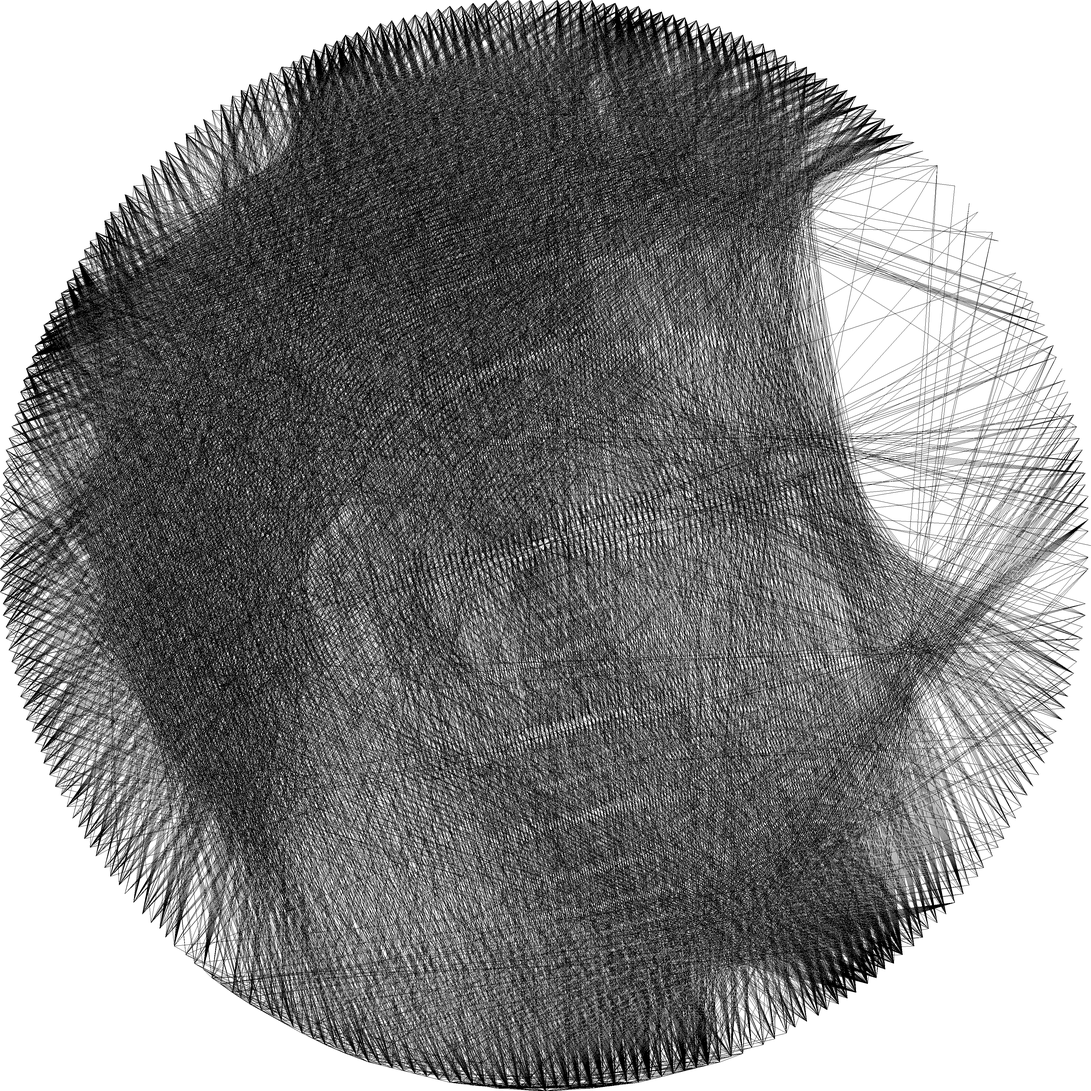
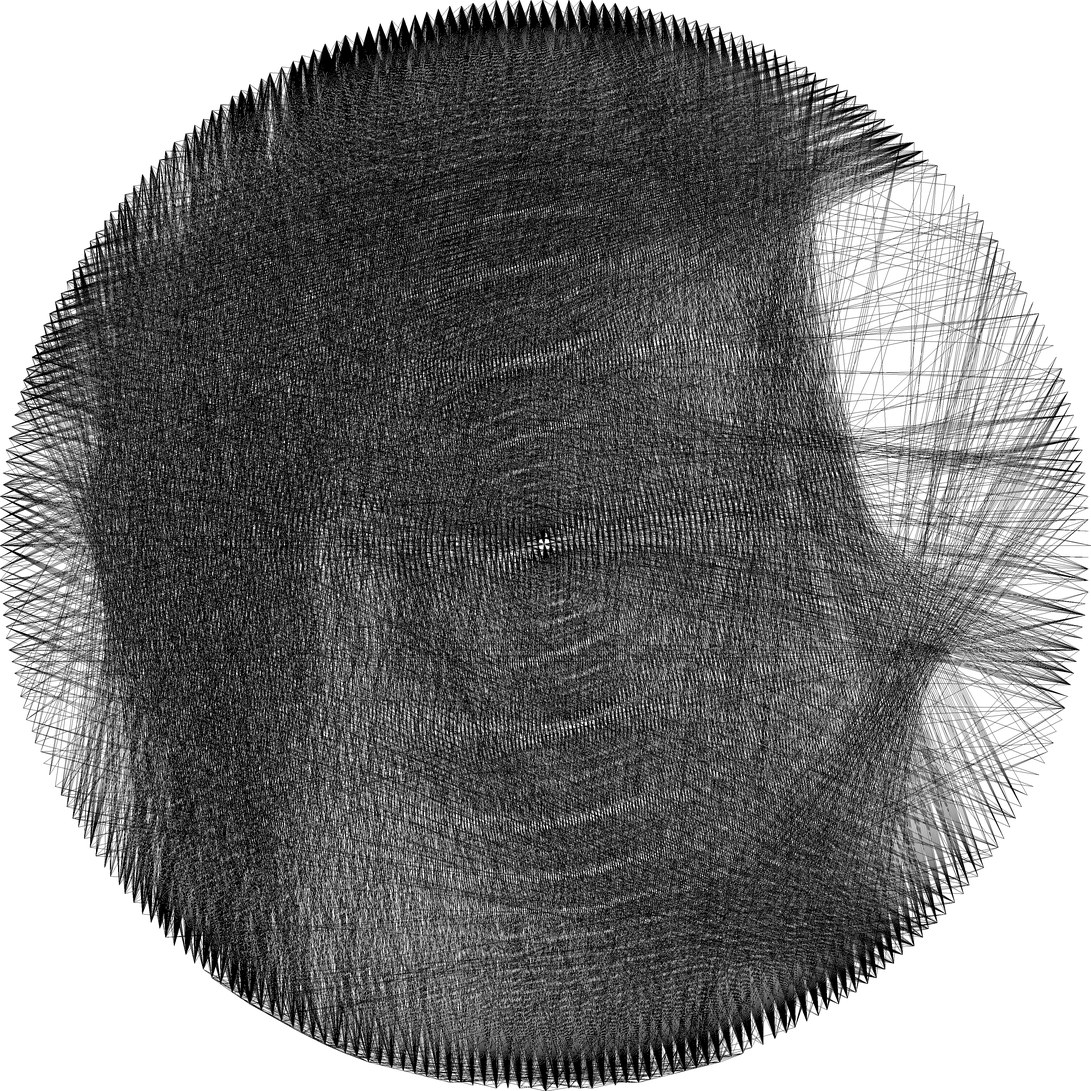
Update README and stringart.png

Changed region(s): [[0.0, 0.0, 0.9957, 1.0]]

diff --git a/README.md b/README.md
@@ -7,5 +7,5 @@ From [Wikipedia](https://en.wikipedia.org/wiki/String_art)
 This repo is an implementation to generate string art from an image
 
 <div align="center">
-    <img src="./img/stringart.png" />
+    <img width="400px" src="./img/stringart.png" />
 </div>
